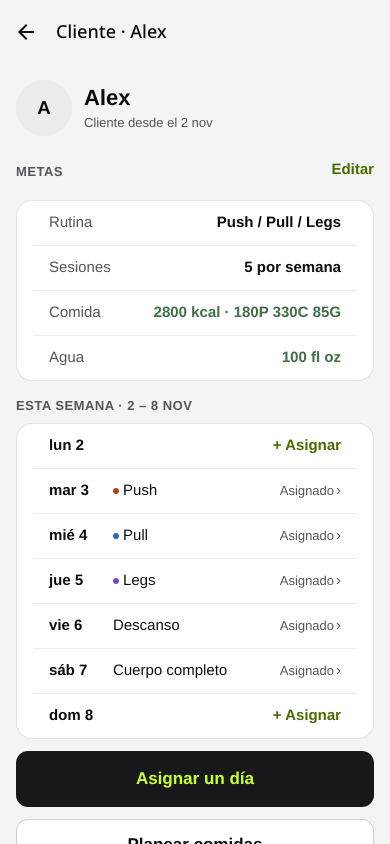
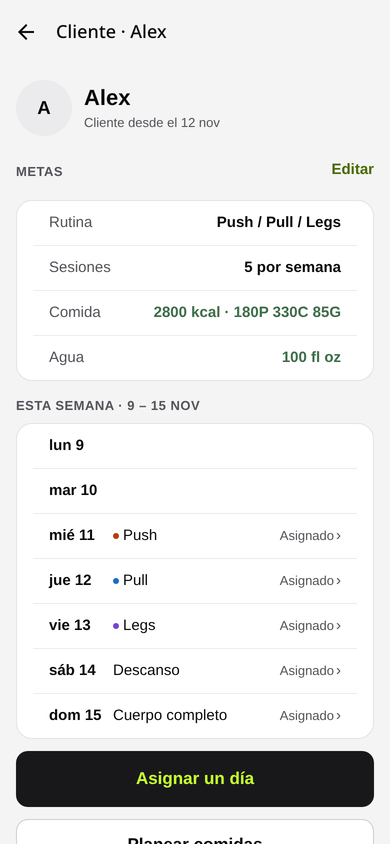
S1: the Coach phone re-shot (option A, EN + ES) and Coach login on (COACH_WEB_URL = fullset-coach.web.app); tracker W1, W9, WL5 and the deploy log (MSG-6002, MSG-6008, MSG-6009, MSG-6011)

diff --git a/store-links.js b/store-links.js
@@ -11,9 +11,10 @@
     // can't join, but the button says it's a test (the Architect, #597 6718723294).
     android: 'https://play.google.com/apps/testing/com.fullset.app',
   };
-  // MSG-5951 W9: the coach web (app.thefullsetapp.com). Empty keeps "Coach login" and the /coaches dashboard button
-  // hidden; set it the day 327 is live in production.
-  var COACH_WEB_URL = '';
+  // MSG-5951 W9: the coach web. Empty keeps "Coach login" and the /coaches dashboard button hidden. Set to the coach
+  // web's production address once change 430's deploy is live (MSG-5977); app.thefullsetapp.com replaces it when its
+  // DNS is set.
+  var COACH_WEB_URL = 'https://fullset-coach.web.app';
   var buttons = document.querySelectorAll('a[data-store]');
   var anyShown = false;
   for (var i = 0; i < buttons.length; i++) {

diff --git a/docs/website-tracker.md b/docs/website-tracker.md
@@ -12,17 +12,17 @@ Same rules as the app's `docs/ops/release-tracker.md`: every ask gets a row the 
 ## Site release S1 — "finished site" (target: before Android goes public)
 | # | Item | Asked | By | Status | Notes |
 |---|---|---|---|---|---|
-| W1 | Hero = three phones: Today, Eat, **Coach** (real renders) | Nov 3 | Angel | Open (fullset-site#16 was two phones) | MSG-5824 item 3 withdrawn |
-| W2 | Real app screens in every phone frame (390×844 @2x, light, demo seed, EN + ES, ≤ 250 KB each); reshoot on every app version that changes a shown screen | Oct 18, again Nov 2 | Angel | Partly done (#16) | Guard rejects loading/empty frames |
-| W3 | Store buttons: **official App Store badge** now (2.0.0 is public on the App Store); Android = **"Join the Android test"** → Play opt-in link until Play production, then the Google Play badge | Oct 18; updated Nov 7 | Angel | Open | Both URLs only in `store-links.js` (MSG-5711) |
-| W4 | **Remove the "Tell me when it's public" waitlist form** (the app is public on iPhone) | Nov 7 | Angel | Decided | joinWaitlist/purgeInvites stay deployed until a cleanup change |
-| W5 | No "beta" / "TestFlight" / "APK" anywhere; nav pill "Get the app"; bottom section GET FULLSET | Oct 18 | Angel | Check on the live site | `grep -ri "beta\|testflight\|apk"` returns nothing but the README |
+| W1 | Hero = three phones: Today, Eat, **Coach** (real renders) | Nov 3 | Angel | **Three phones on main** (#16, 072433f). **This PR re-shoots the Coach phone: option A, the phone app's Coach → client page, 390×844 @2x, EN + ES, W2 guard** (MSG-6002 A; re-shot Nov 12 from app master bc97b543, MSG-6011 E, MSG-6026) | MSG-5824 item 3 withdrawn; the Coach phone also on /coaches |
+| W2 | Real app screens in every phone frame (390×844 @2x, light, demo seed, EN + ES, ≤ 250 KB each); reshoot on every app version that changes a shown screen | Oct 18, again Nov 2 | Angel | **Done on `main`** (#16: Today, Eat, Progress from 2.0.3 build 32; 390 px srcset) | Guard rejects loading/empty frames |
+| W3 | Store buttons: **official App Store badge** now (2.0.0 is public on the App Store); Android = **"Join the Android test"** → Play opt-in link until Play production, then the Google Play badge | Oct 18; updated Nov 7 | Angel | **Done as built** (#16): both buttons in the page, each hidden while its link is empty. `android` is set. **`apple` stays '' until each app is public to everyone; the Architect fills it then, and nobody asks Angel (MSG-5992)** | Both URLs only in `store-links.js` (MSG-5711) |
+| W4 | **Remove the "Tell me when it's public" waitlist form** (the app is public on iPhone) | Nov 7 | Angel | **Done on `main`**: no page has a waitlist form | joinWaitlist/purgeInvites stay deployed until a cleanup change. `waitlist.js` and `coach-waitlist.js` stay in the repo, unused, until then; the privacy page keeps "The waitlist" while entries may exist |
+| W5 | No "beta" / "TestFlight" / "APK" anywhere; nav pill "Get the app"; bottom section GET FULLSET | Oct 18 | Angel | **Done on `main`**: the grep over the pages finds nothing (web walk, angel-log #1445 6760133571) | `grep -ri "beta\|testflight\|apk"` returns nothing but the README |
 | W6 | Four EN copy fixes (delete account wording; "Coach" label; coaching-is-Pro line; Android button wording) | Oct 15 | Architect | Check | site-es-copy.md "First: four fixes" |
 | W7 | Spanish pages /es, /es/coaches, /es/terms per site-es-copy.md; language switch; hreflang | Oct 15 | Angel | Check | screen names follow the app's es.json |
 | W8 | Feature lines for 2.1.0: **Snap meal** (AI photo, Pro) and **"menus from popular restaurants"** (generic wording on the site; no chain names in store metadata) | Nov 7 | Angel | Asked | ships with F25 |
-| W9 | "Coach login" / "Acceso coaches" in the header + "Open the coach dashboard" on /coaches | Nov 3 | Angel | **Blocked until 327 is live** (no dead links) | |
+| W9 | "Coach login" / "Acceso coaches" in the header + "Open the coach dashboard" on /coaches | Nov 3 | Angel | **On in this PR:** COACH_WEB_URL = 'https://fullset-coach.web.app'. The coach web is live in production and signs in (MSG-6008, MSG-6009; AC-430-3.1 done) | app.thefullsetapp.com replaces it when its DNS is set |
 | W10 | Lighthouse mobile ≥ 95 (perf, a11y, best practices, SEO); scores in the PR | Oct 14 | Architect | Check each PR | |
-| W11 | Engineer 3 reports the **last approved design** vs what's live (asked Nov 7 15:1x) | Nov 7 | Angel | Waiting on Engineer 3 | then one plan for Angel's approval |
+| W11 | Engineer 3 reports the **last approved design** vs what's live (asked Nov 7 15:1x) | Nov 7 | Angel | **Answered by MSG-5951's S1 DECISION:** the base is the live site's three-phone layout, not the Nov 2 preview. `main` follows it; the live site is still the version from before #16 until the one deploy (MSG-5977) | the gap is the deploy, held on purpose |
 
 ## Later
 | # | Item | Asked | Notes |
@@ -30,7 +30,17 @@ Same rules as the app's `docs/ops/release-tracker.md`: every ask gets a row the 
 | WL1 | Google Play badge replaces "Join the Android test" the day Play production opens | — | MSG-5711 |
 | WL2 | Store-link swap and preview-channel steps written as a one-page runbook for Angel | Nov 7 | Architect |
 | WL3 | Pricing page (when Pro pricing is final) | — | spec says "no pricing page" for now |
+| WL5 | Laptop-frame coach-web shot for the "For coaches" bands (a design change to those bands) | Nov 10 | MSG-6002 C: not in S1; its own row and Angel's look after the one deploy |
 
 ## Deploy log
 - 2026-11-02: preview channel `site-2` deployed by Angel on `shots/5824-real-screens` (expires Nov 10 00:43Z). Angel's review Nov 3: "still not the latest version I asked for" (no coach login, no coach phone) → W1, W9.
+- 2026-11-08: #16 (the MSG-5951 S1 commits: the Coach phone, the 2.0.3 re-shots, the badge and "Join the Android test", the waitlist form removed) merged into `main` (65733b2). **Undeployed on purpose.**
+- 2026-11-09: Engineer 3's web walk of `main` at 375/430, EN/ES: no issues (angel-log #1445 6760133571; shots in angel-log `docs/comms/img/site-s1/`).
+- 2026-11-10: the coach web is live at https://fullset-coach.web.app (430; MSG-6008, MSG-6009). The Coach phone was re-shot on Nov 12 from app master bc97b543 (option A, MSG-6002, MSG-6026) and this PR sets COACH_WEB_URL. Still undeployed: one combined preview → "site ok" → Angel deploys.
+- **Deploy rule (MSG-5977):** one production deploy after all of these:
+  - the coach web is styled (426, 429: done);
+  - the coach web is on its production address with `COACH_WEB_URL` set (430, W9): done (this PR);
+  - the Coach phone is re-shot (W1): done (this PR);
+  - the badge stays hidden until Apple's link is filled when the app is public (MSG-5992).
+  Then this one site PR, one combined preview → "site ok" → Angel deploys.
 
